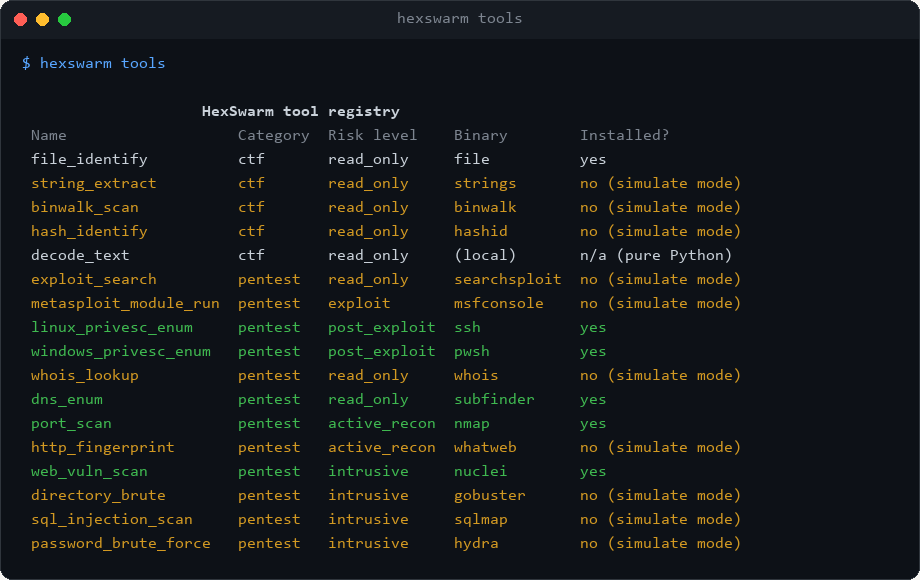
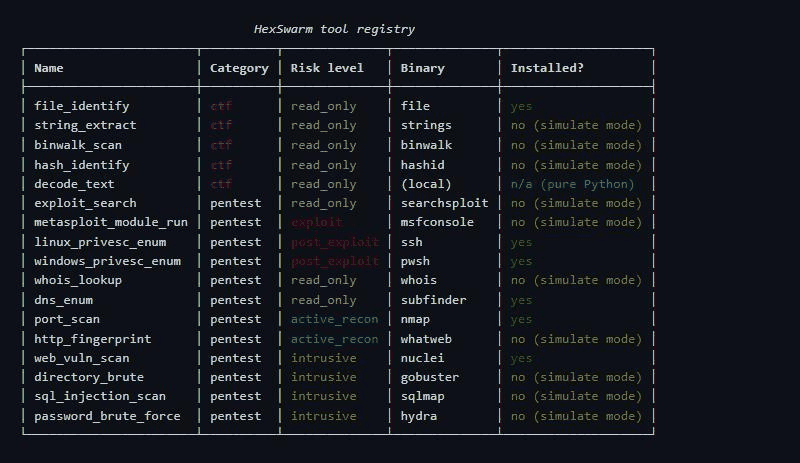
Replace mockup screenshots with real program-captured ones
Previous screenshots were terminal-styled renders of manually copied
text. These are the actual program: driven in-process through Typer's
CliRunner with a recording Rich console, HTML-exported, and screenshotted
for real in a browser. Only the LLM backend is swapped for a scripted
stand-in (same technique the test suite already uses), since no model
is configured in this environment; every tool call shown still executes
for real (a real nmap scan against scanme.nmap.org, real file_identify
and decode_text runs against a real file).

Also colorized the tools table by risk tier (was plain text before),
a genuine output-quality improvement alongside the capture work.

Adds: hexswarm_init.png, hexswarm_doctor.png, hexswarm_ctf.png,
hexswarm_run.png. Replaces hexswarm_tools.png with the colorized real
capture. Drops the old combined run_demo mockup.

diff --git a/src/hexswarm/cli/main.py b/src/hexswarm/cli/main.py
@@ -196,6 +196,15 @@ def doctor() -> None:
         raise typer.Exit(code=1)
 
 
+RISK_LEVEL_COLOR = {
+    "read_only": "dim",
+    "active_recon": "cyan",
+    "intrusive": "yellow",
+    "exploit": "bold red",
+    "post_exploit": "bold red",
+}
+
+
 @app.command(name="tools")
 def list_tools() -> None:
     """List every registered tool, its category, risk tier, and whether its binary is installed."""
@@ -207,13 +216,16 @@ def list_tools() -> None:
     table.add_column("Installed?")
     for tool in ToolRegistry.all().values():
         if tool.local_only:
-            status = "n/a (pure Python)"
+            status = "[cyan]n/a (pure Python)[/cyan]"
         elif tool.is_available():
-            status = "yes"
+            status = "[green]yes[/green]"
         else:
-            status = "no (simulate mode)"
+            status = "[yellow]no (simulate mode)[/yellow]"
         binary_label = "(local)" if tool.local_only else tool.binary
-        table.add_row(tool.name, tool.category, tool.risk_level.value, binary_label, status)
+        risk_color = RISK_LEVEL_COLOR.get(tool.risk_level.value, "")
+        risk_label = f"[{risk_color}]{tool.risk_level.value}[/{risk_color}]" if risk_color else tool.risk_level.value
+        category_label = "[magenta]ctf[/magenta]" if tool.category == "ctf" else tool.category
+        table.add_row(tool.name, category_label, risk_label, binary_label, status)
     console.print(table)
 
 

diff --git a/README.md b/README.md
@@ -17,13 +17,34 @@
 
 ## Screenshots
 
-<p align="center"><img src="docs/screenshots/hexswarm_help.png" alt="hexswarm --help output listing the version, tools, scope-check, run, and ctf commands" width="700"></p>
+**`hexswarm init`**, the guided setup wizard:
 
-<p align="center"><img src="docs/screenshots/hexswarm_tools.png" alt="hexswarm tools output listing all 17 registered tools with category, risk level, binary, and install status" width="700"></p>
+<p align="center"><img src="docs/screenshots/hexswarm_init.png" alt="hexswarm init interactive wizard choosing a model, naming the engagement, adding scanme.nmap.org to scope, and picking a risk level" width="700"></p>
+
+**`hexswarm doctor`**, checking the configured model and tool availability:
+
+<p align="center"><img src="docs/screenshots/hexswarm_doctor.png" alt="hexswarm doctor reporting the Anthropic API key is set, 7 of 17 tools installed, and the engagement is ready to run" width="700"></p>
+
+**`hexswarm tools`**, the full registry with risk tiers color-coded:
+
+<p align="center"><img src="docs/screenshots/hexswarm_tools.png" alt="hexswarm tools output listing all 17 registered tools with category, risk level, binary, and install status, color-coded by risk" width="700"></p>
+
+**`hexswarm run`**, a real recon pass against scanme.nmap.org through the full phase pipeline, each phase's output and the final report rendered as Markdown panels:
+
+<p align="center"><img src="docs/screenshots/hexswarm_run.png" alt="hexswarm run showing recon, scan, exploit, and privesc phase panels followed by the final Markdown assessment report" width="700"></p>
+
+**`hexswarm ctf`**, identifying and decoding a challenge file end to end:
+
+<p align="center"><img src="docs/screenshots/hexswarm_ctf.png" alt="hexswarm ctf identifying a file as ASCII text and decoding its Base64 content to recover the flag" width="700"></p>
+
+<details>
+<summary>hexswarm scope-check and --help</summary>
 
 <p align="center"><img src="docs/screenshots/hexswarm_scope_check.png" alt="hexswarm scope-check showing an authorized target accepted and an out-of-scope target rejected" width="700"></p>
 
-<p align="center"><img src="docs/screenshots/hexswarm_run_demo.png" alt="a real nmap scan against scanme.nmap.org followed by a CTF flag decode, both run through HexSwarm" width="700"></p>
+<p align="center"><img src="docs/screenshots/hexswarm_help.png" alt="hexswarm --help output listing the version, tools, scope-check, run, and ctf commands" width="700"></p>
+
+</details>
 
 ## Why HexSwarm exists
 
